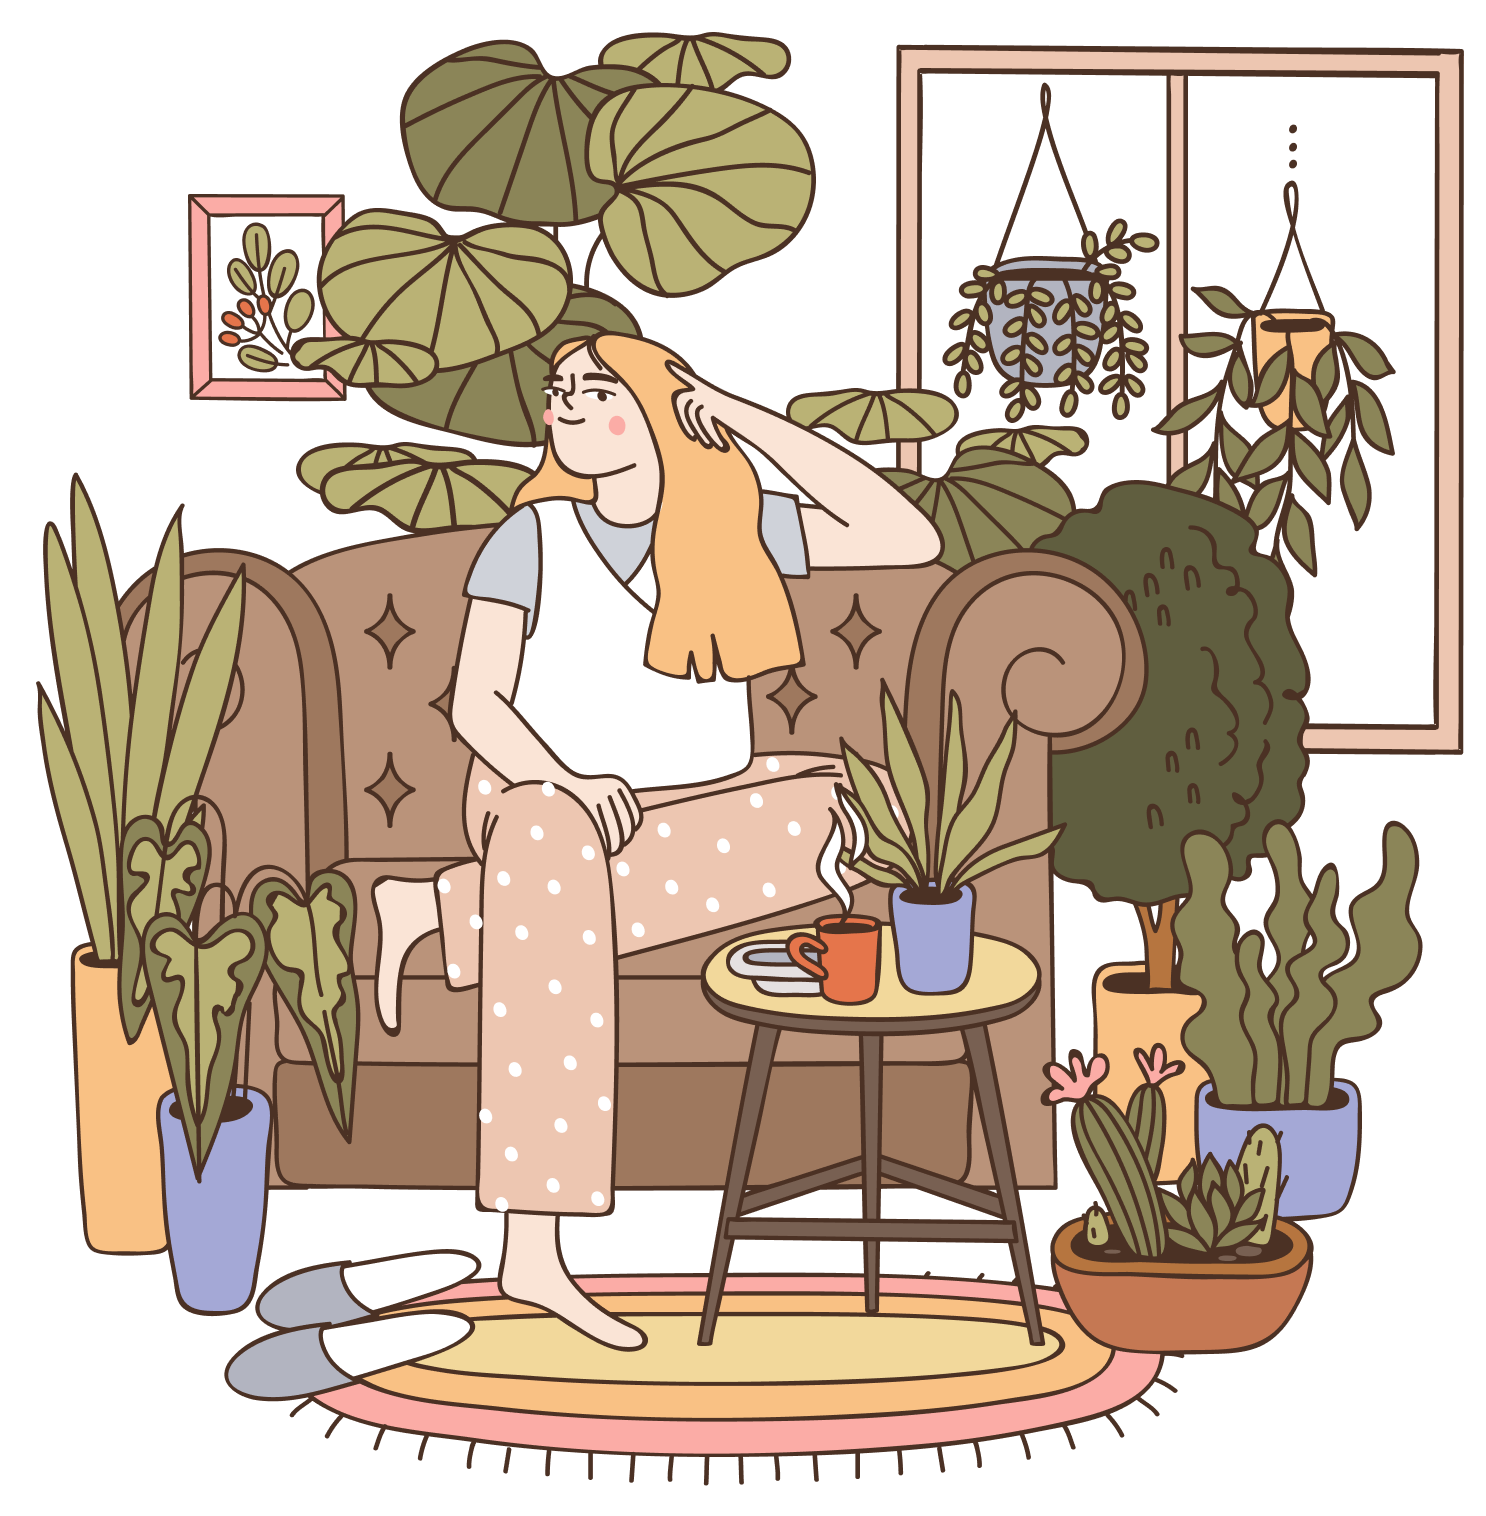
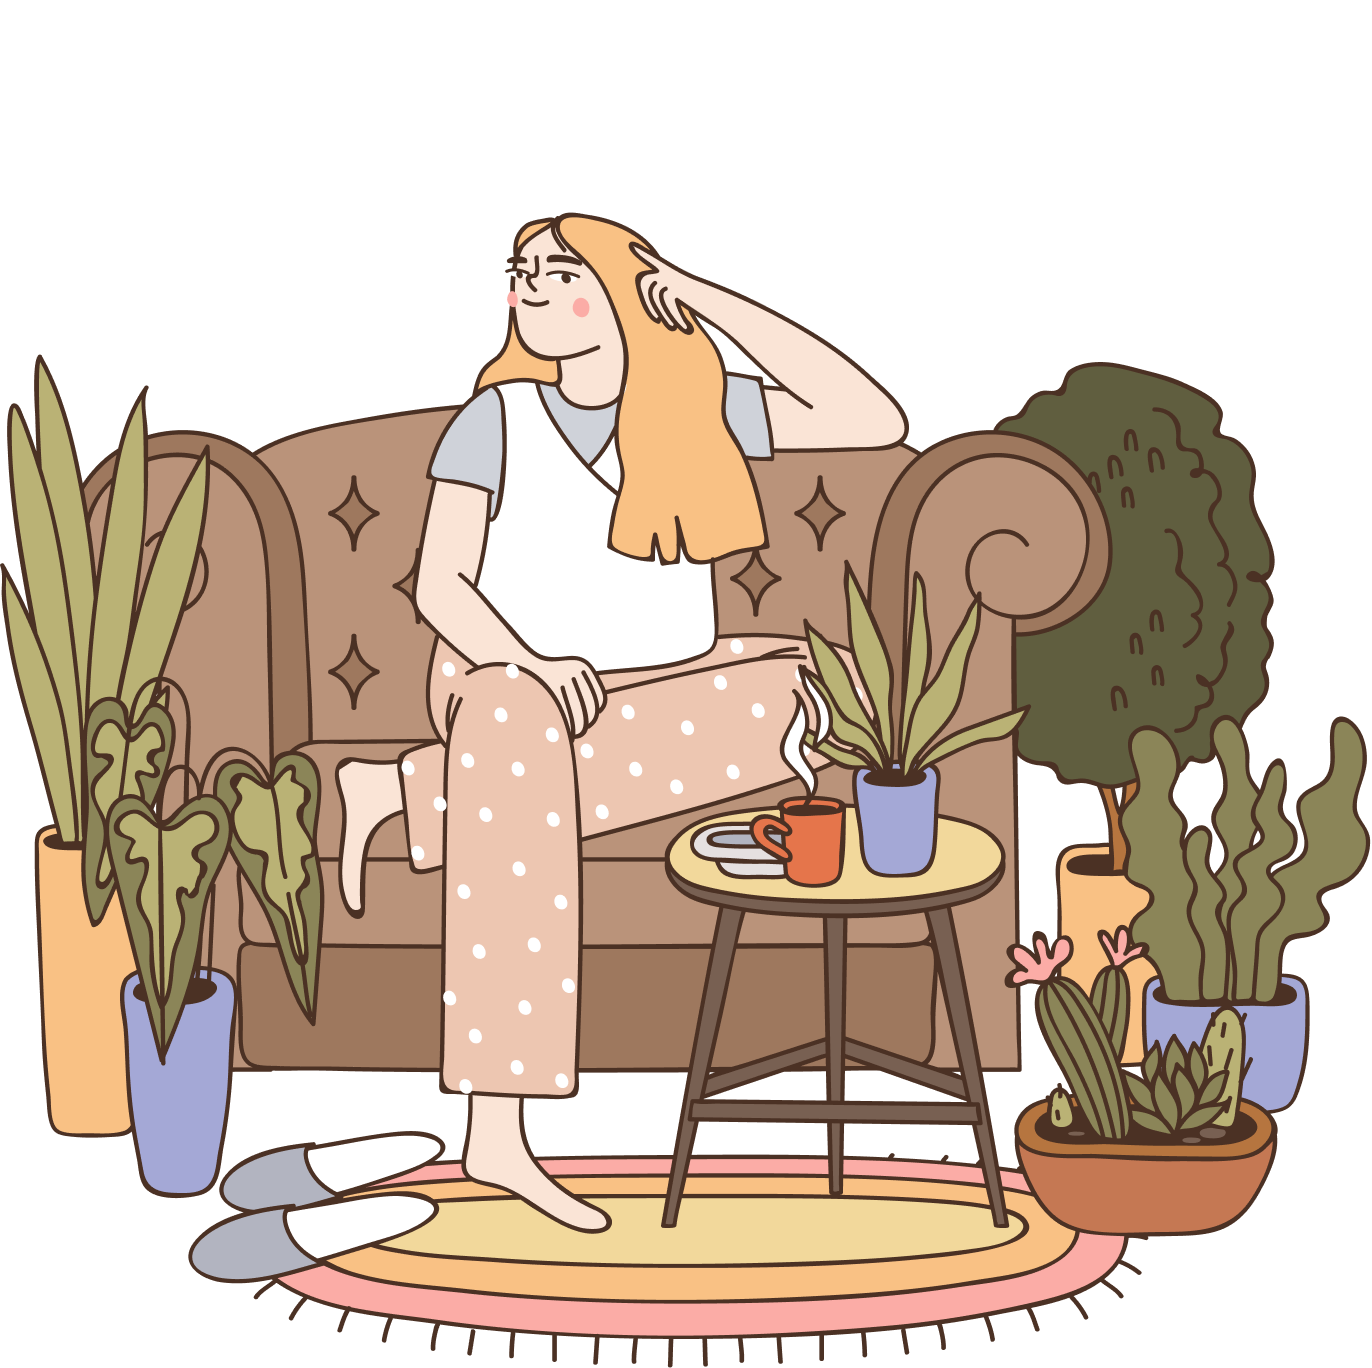
good

diff --git a/index.html b/index.html
@@ -229,7 +229,7 @@
 
 
               <div class="col-lg-5 d-flex justify-content-end" data-aos="fade-up" data-aos-delay="200">
-                <img src="assets/img/porque/porque.png" alt="¿Por qué?" class="img-porque">
+                <img src="assets/img/porque/porque-2.png" alt="¿Por qué?" class="img-porque">
               </div>
             </div>
           </div>
@@ -243,7 +243,7 @@
       <div class="container" data-aos="fade-up">
 
         <div class="section-precios align-items-center">
-          <h4>ELEGÍ TU PLAN</h4>
+          <h4>ELEGÍ TU</h4>
           <h2>¡Es el momento de suscribirse!</h2>
         </div>
 

diff --git a/assets/css/style.css b/assets/css/style.css
@@ -418,7 +418,6 @@ h6 {
   background: #fff4f4;
   border-color: #82B64F;
   color: #82B64F;
-  font-weight: 500;
 }
 
 
@@ -1199,7 +1198,7 @@ section {
   color: #4B3124;
   display: flex;
   flex-direction: column;
-  gap: 16px;
+  gap: 9px;
 }
 
 .pricing .box ul li {
@@ -2455,7 +2454,6 @@ section {
 
 
 .img-hero {
-  padding-top: 90px;
   max-width: 105%;
   height: auto;
 }
